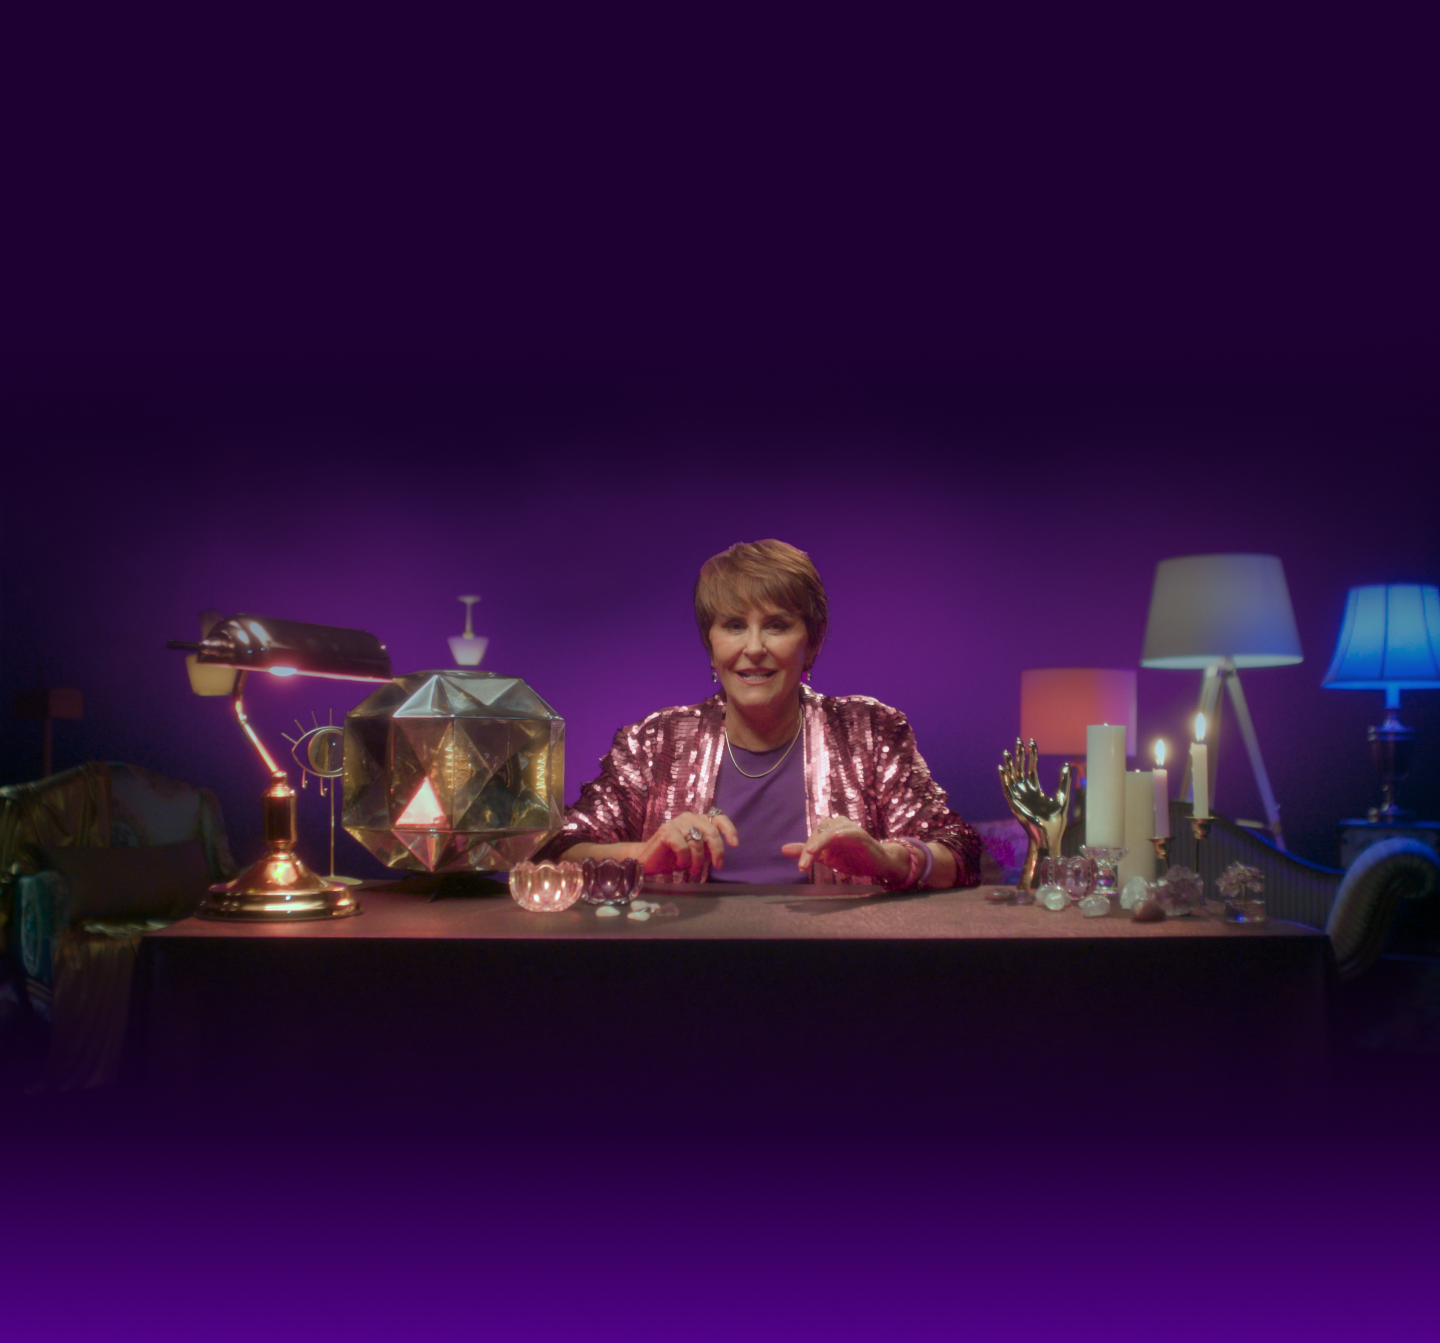
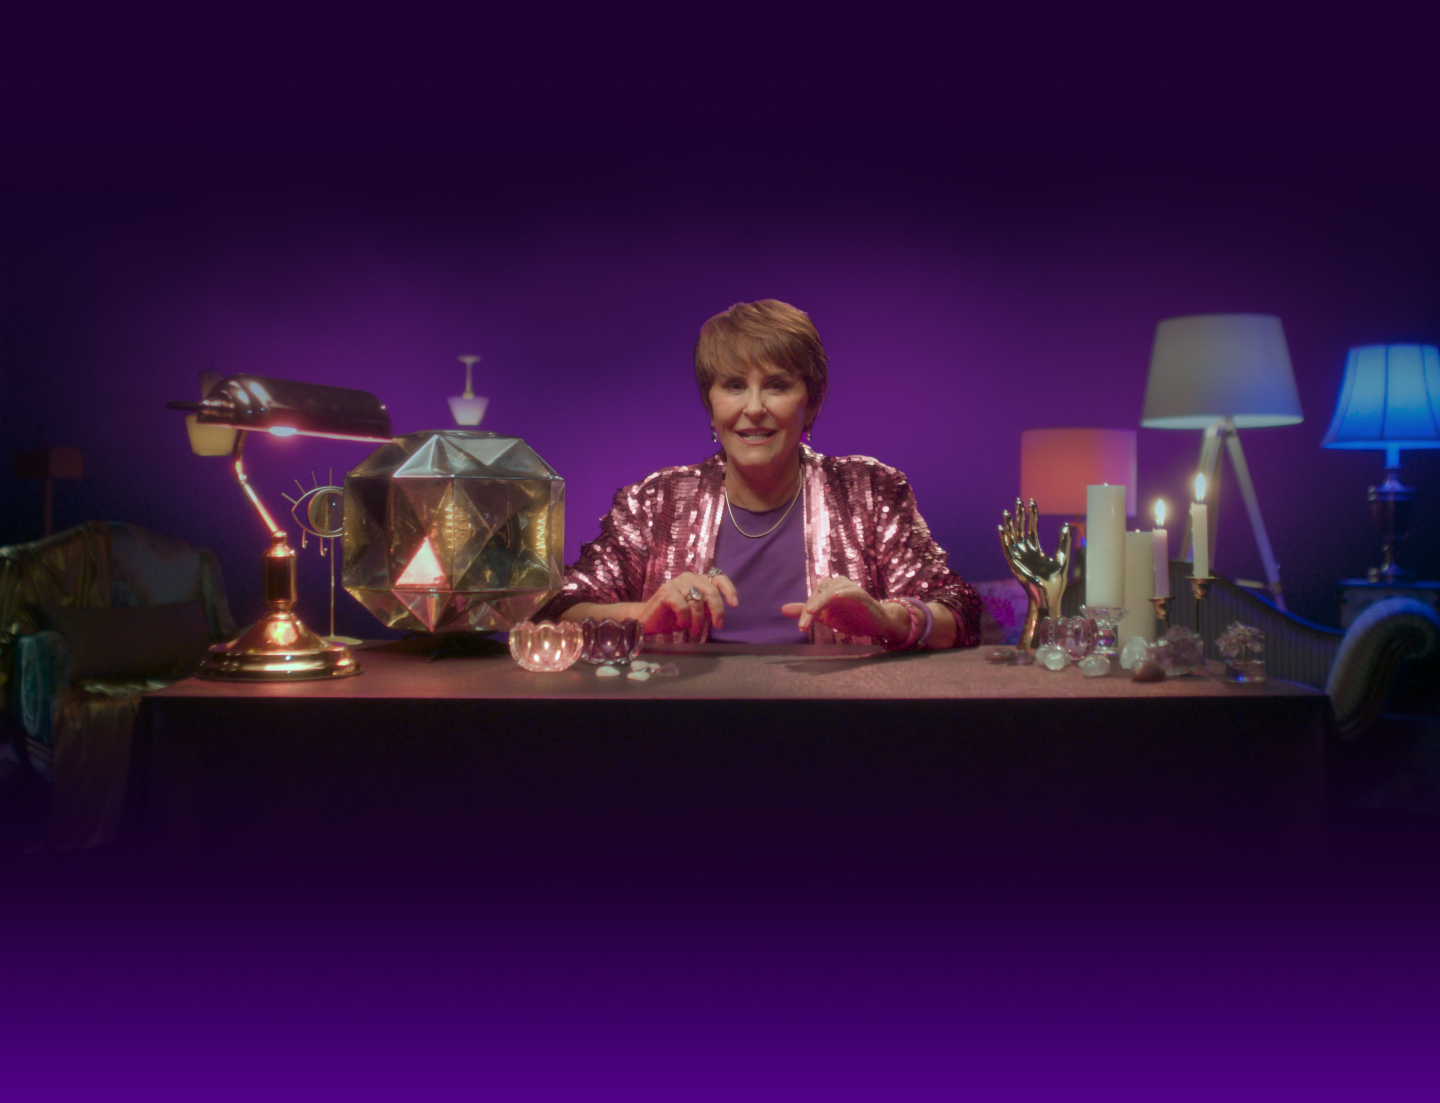
arrumando layout

diff --git a/component/BoxCarta/index.jsx b/component/BoxCarta/index.jsx
@@ -41,11 +41,10 @@ import Cupons from '../Cupons';
 import EnviarCarta from '../../public/images/enviar-carta.png';
 import {ToastContainer, toast} from 'react-toastify';
 import 'react-toastify/dist/ReactToastify.css';
+import px2vw from '../../utils/px2vw';
 require('dayjs/locale/pt-br');
 
-const corpoCarta = `Lorem Ipsum is simply dummy text of the printing and typesetting industry. Lorem Ipsum has been the industry's standard dummy text ever since the 1500s, when an unknown printer took a galley of type and scrambled it to make a type specimen book.Lorem Ipsum is simply dummy text of the printing and typesetting industry. Lorem Ipsum has been the industry's \n
-standard dummy text ever since the 1500s, when an unknown printer took a galley of type and scrambled it to make a type specimen book.Lorem Ipsum is simply dummy text of the printing and typesetting industry. Lorem Ipsum has been the industry's standard dummy text ever since the 1500s, when an unknown printer took a galley of type and scrambled it to make a type specimen book.Lorem Ipsum is simply dummy text of the printing and typesetting industry. Lorem Ipsum has been the industry's standard dummy \n
-um has been the industry's standard dummy text ever since the 1500s, when an unknown printer took a galley of type and scrambled it to make a type specimen book.Lorem Ipsum is simply dummy text of the printing and typesetting industry. Lorem Ipsum has been the industry's standard dummy text ever since the 1500s, when an unknown printer took a galley of type and scrambled it to make a type specimen book.Lorem Ipsum is simply dummy te`;
+const corpoCarta = `Escreva aqui sua carta...`;
 function BoxCarta() {
   const [msgCart, setMsgCarta] = useState(corpoCarta);
 
@@ -72,6 +71,8 @@ function BoxCarta() {
 
   const [rAceito, setRaceito] = useState(false);
   const [dAceito, setDaceito] = useState(false);
+
+  const [cartaFinalizada, setCartaFinalizada] = useState(false);
 
   const [disableDest, setDisableDest] = useState(true);
   const cadastro = useRef(null);
@@ -256,6 +257,9 @@ function BoxCarta() {
     setDcep('');
     setAceitocarta(false);
     setcartaPreenchida(false);
+    setCartaFinalizada(true);
+
+    carta.current.scrollIntoView({behavior: 'smooth'});
   };
 
   const handleCarta = (event) => {
@@ -334,7 +338,16 @@ function BoxCarta() {
       </Title>
       <Carta>
         <form onSubmit={handleCarta}>
-          <CartaInterior ref={carta}>
+          <p
+            style={{
+              fontFamily: 'Titillium Web, sans-serif;',
+              textAlign: 'center',
+              fontSize: px2vw(20),
+              color: '#878787',
+            }}>
+            Escreva sua cartinha
+          </p>
+          <CartaInterior>
             <BgImage>
               <Box>
                 <InputText
@@ -374,28 +387,32 @@ function BoxCarta() {
                 />
                 <LabelData>,{dataAtual}</LabelData>
               </Box>
-              <Box style={{marginTop: 100}}>
-                <SubTitle>
-                  Alguém especial deixou essas surpresinhas aqui
-                  <br />
-                  pra você... acesse o site e aproveite!
-                </SubTitle>
-              </Box>
-              <BoxFooter>
-                <GifFooter>
-                  <Image
-                    src={DeuMatch}
-                    alt="Deu Match Zema"
-                    layout="responsive"
-                  />
-                  <Image
-                    src={FooterZema}
-                    width={172}
-                    style={{paddingLeft: 20}}
-                  />
-                </GifFooter>
-                <Cupons />
-              </BoxFooter>
+              {cartaFinalizada ? (
+                <>
+                  <Box style={{marginTop: 100}} ref={carta}>
+                    <SubTitle>
+                      Alguém especial deixou essas surpresinhas aqui
+                      <br />
+                      pra você... acesse o site e aproveite!
+                    </SubTitle>
+                  </Box>
+                  <BoxFooter>
+                    <GifFooter>
+                      <Image
+                        src={DeuMatch}
+                        alt="Deu Match Zema"
+                        layout="responsive"
+                      />
+                      <Image
+                        src={FooterZema}
+                        width={172}
+                        style={{paddingLeft: 20}}
+                      />
+                    </GifFooter>
+                    <Cupons />
+                  </BoxFooter>
+                </>
+              ) : null}
             </BgImage>
           </CartaInterior>
           <ContainerButton>

diff --git a/component/Produtos/index.jsx b/component/Produtos/index.jsx
@@ -1,6 +1,12 @@
 import React from 'react';
 
-import {Container, Title, CarroselDesktop, CarroselMobile} from './styles';
+import {
+  Container,
+  Title,
+  CarroselDesktop,
+  CarroselMobile,
+  CarroselBig,
+} from './styles';
 import ItemProdutos from '../ItemProdutos';
 import Brastremp from '../../public/images/produtos/brastremp.png';
 import {Swiper, SwiperSlide} from 'swiper/react';
@@ -62,11 +68,92 @@ const produtos = [
     dividido: 'ou em até 10x de R$ 219,00 s/ juros',
     star: 5,
   },
+  {
+    off: '15% OFF',
+    image: Brastremp,
+    frete: 'Frete Grátis',
+    title: 'Geladeira/Refrigerador Brastemp Frost Free Evox 350L...',
+    price: 'R$2.599,00',
+    priceDiscount: 'R$2.199,00',
+    dividido: 'ou em até 10x de R$ 219,00 s/ juros',
+    star: 5,
+  },
+  {
+    off: '15% OFF',
+    image: Brastremp,
+    frete: 'Frete Grátis',
+    title: 'Geladeira/Refrigerador Brastemp Frost Free Evox 350L...',
+    price: 'R$2.599,00',
+    priceDiscount: 'R$2.199,00',
+    dividido: 'ou em até 10x de R$ 219,00 s/ juros',
+    star: 3,
+  },
+  {
+    off: '15% OFF',
+    image: Brastremp,
+    frete: 'Frete Grátis',
+    title: 'Geladeira/Refrigerador Brastemp Frost Free Evox 350L...',
+    price: 'R$2.599,00',
+    priceDiscount: 'R$2.199,00',
+    dividido: 'ou em até 10x de R$ 219,00 s/ juros',
+    star: 4,
+  },
+  {
+    off: '15% OFF',
+    image: Brastremp,
+    frete: 'Frete Grátis',
+    title: 'Geladeira/Refrigerador Brastemp Frost Free Evox 350L...',
+    price: 'R$2.599,00',
+    priceDiscount: 'R$2.199,00',
+    dividido: 'ou em até 10x de R$ 219,00 s/ juros',
+    star: 2,
+  },
+  {
+    off: '15% OFF',
+    image: Brastremp,
+    frete: 'Frete Grátis',
+    title: 'Geladeira/Refrigerador Brastemp Frost Free Evox 350L...',
+    price: 'R$2.599,00',
+    priceDiscount: 'R$2.199,00',
+    dividido: 'ou em até 10x de R$ 219,00 s/ juros',
+    star: 4,
+  },
+  {
+    off: '15% OFF',
+    image: Brastremp,
+    frete: 'Frete Grátis',
+    title: 'Geladeira/Refrigerador Brastemp Frost Free Evox 350L...',
+    price: 'R$2.599,00',
+    priceDiscount: 'R$2.199,00',
+    dividido: 'ou em até 10x de R$ 219,00 s/ juros',
+    star: 5,
+  },
+  {
+    off: '15% OFF',
+    image: Brastremp,
+    frete: 'Frete Grátis',
+    title: 'Geladeira/Refrigerador Brastemp Frost Free Evox 350L...',
+    price: 'R$2.599,00',
+    priceDiscount: 'R$2.199,00',
+    dividido: 'ou em até 10x de R$ 219,00 s/ juros',
+    star: 5,
+  },
 ];
 function Produtos() {
   return (
     <Container id="produtos">
       <Title>Encontre o presente que tem a cara do benzinho</Title>
+      <CarroselBig>
+        <Carousel
+          itemsToScroll={6}
+          showArrows={false}
+          itemPosition={'START'}
+          itemsToShow={6}>
+          {produtos.map((item, index) => {
+            return <ItemProdutos produto={item}></ItemProdutos>;
+          })}
+        </Carousel>
+      </CarroselBig>
       <CarroselDesktop>
         <Carousel showArrows={false} itemPosition={'START'} itemsToShow={4}>
           {produtos.map((item, index) => {

diff --git a/component/Produtos/styles.jsx b/component/Produtos/styles.jsx
@@ -22,19 +22,37 @@ export const ProdutosContainer = styled.div`
 `;
 
 export const CarroselDesktop = styled.div`
-  @media (min-width: 1024px) {
+  @media (min-width: 1024px) and (max-width: 1899px) {
     display: block;
   }
   @media (max-width: 1023px) {
     display: none;
   }
+  @media (min-width: 1900px) {
+    display: none;
+  }
 `;
 
 export const CarroselMobile = styled.div`
-  @media (min-width: 1024px) {
+  @media (min-width: 1024px) and (max-width: 1899px) {
     display: none;
   }
   @media (max-width: 1023px) {
+    display: block;
+  }
+  @media (min-width: 1900px) {
+    display: none;
+  }
+`;
+
+export const CarroselBig = styled.div`
+  @media (min-width: 1024px) and (max-width: 1899px) {
+    display: none;
+  }
+  @media (max-width: 1023px) {
+    display: none;
+  }
+  @media (min-width: 1900px) {
     display: block;
   }
 `;

diff --git a/component/Roleta/styles.jsx b/component/Roleta/styles.jsx
@@ -18,13 +18,14 @@ export const Container = styled.div`
 export const Title = styled.h2`
   text-align: center;
   color: #878787;
+  line-height: 1.2;
   margin: 0px;
   @media (min-width: 1024px) and (max-width: 1989px) {
     font-size: ${px2vw(30)};
     padding-right: ${px2vw(130)};
   }
   @media (min-width: 1900px) {
-    padding-right: ${px2vw(280)};
+    padding-right: ${px2vw(0)};
   }
   @media (max-width: 1023px) {
     font-size: ${px2vw(80)};

diff --git a/component/Videos/styles.js b/component/Videos/styles.js
@@ -13,12 +13,11 @@ export const Title = styled.h2`
   text-align: center;
   color: #878787;
   margin: 0px;
+  line-height: 1.2;
   @media (min-width: 1024px) and (max-width: 1989px) {
     font-size: ${px2vw(30)};
-    padding-right: ${px2vw(130)};
   }
   @media (min-width: 1900px) {
-    padding-right: ${px2vw(280)};
   }
   @media (max-width: 1023px) {
     font-size: ${px2vw(80)};

diff --git a/component/Carrousel/styles.jsx b/component/Carrousel/styles.jsx
@@ -14,13 +14,13 @@ export const Item = styled.div`
 export const CarouselDesktop = styled.div`
   @media (min-width: 1024px) and (max-width: 1899px) {
     display: block;
-    margin-top: 530px;
+    margin-top: 400px;
   }
   @media (max-width: 1023px) {
     display: none;
   }
   @media (min-width: 1900px) {
-    margin-top: 700px;
+    margin-top: 500px;
   }
 `;
 

diff --git a/component/Roleta/index.jsx b/component/Roleta/index.jsx
@@ -58,7 +58,7 @@ function Roleta() {
   const classes = useStyles();
   const [mustSpin, setMustSpin] = useState(false);
   const [couponNum, setCouponNum] = useState(1);
-  const [signo, setSigno] = useState(1);
+  const [signo, setSigno] = useState();
   const [pedding, setPedding] = useState(false);
 
   const handleSpinClick = () => {

diff --git a/component/BoxCarta/styles.jsx b/component/BoxCarta/styles.jsx
@@ -66,7 +66,7 @@ export const Carta = styled.div`
   background-color: #fff;
   z-index: 999;
   border-radius: ${px2vw(15)};
-  padding: ${px2vw(50)};
+  padding: ${px2vw(20)} ${px2vw(50)} ${px2vw(50)} ${px2vw(50)};
   margin-top: ${px2vw(20)};
   @media (min-width: 1024px) {
     max-width: ${px2vw(1000)};

diff --git a/component/Banner/styles.jsx b/component/Banner/styles.jsx
@@ -11,11 +11,11 @@ export const ImgLogo = styled.div`
     width: 70%;
   }
   @media (min-width: 1024px) and (max-width: 1899px) {
-    width: 500px;
+    width: 350px;
   }
 
   @media (min-width: 1900px) {
-    width: 700px;
+    width: 500px;
   }
-  margin-top: 50px;
+  margin-top: 20px;
 `;

diff --git a/pages/styles.js b/pages/styles.js
@@ -74,7 +74,7 @@ export const ContainerBG = styled.div`
     background-image: url(${BgMarcia.src});
   }
   @media (min-width: 1900px) {
-    height: 1843px;
+    height: 1473px;
   }
   @media (max-width: 1023px) {
     background-size: 100%;

diff --git a/component/ItemProdutos/styles.jsx b/component/ItemProdutos/styles.jsx
@@ -1,7 +1,7 @@
 import styled from 'styled-components';
 
 export const Container = styled.div`
-  width: 257px;
+  width: 247px;
   height: 480px;
   -webkit-box-shadow: 0px 10px 13px -7px #000000,
     5px 7px 22px 1px rgba(0, 0, 0, 0);

diff --git a/component/Signos/styles.jsx b/component/Signos/styles.jsx
@@ -135,7 +135,7 @@ export const ItemDescricao = styled.div`
   @media (max-width: 1023px) {
     font-size: ${px2vw(50)};
   }
-  font-weight: 100;
+  font-weight: normal;
 `;
 
 export const Color = styled.span`
